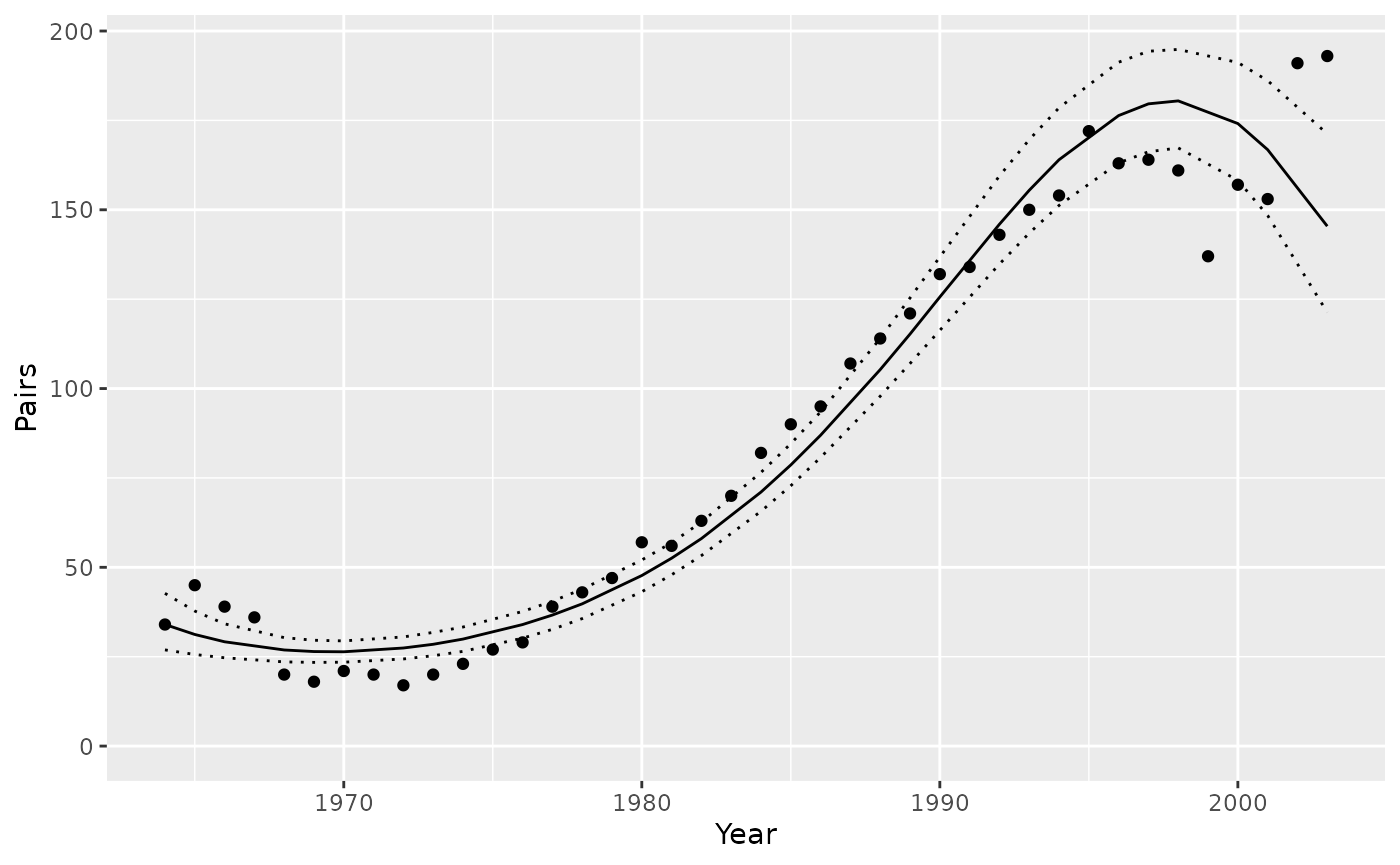
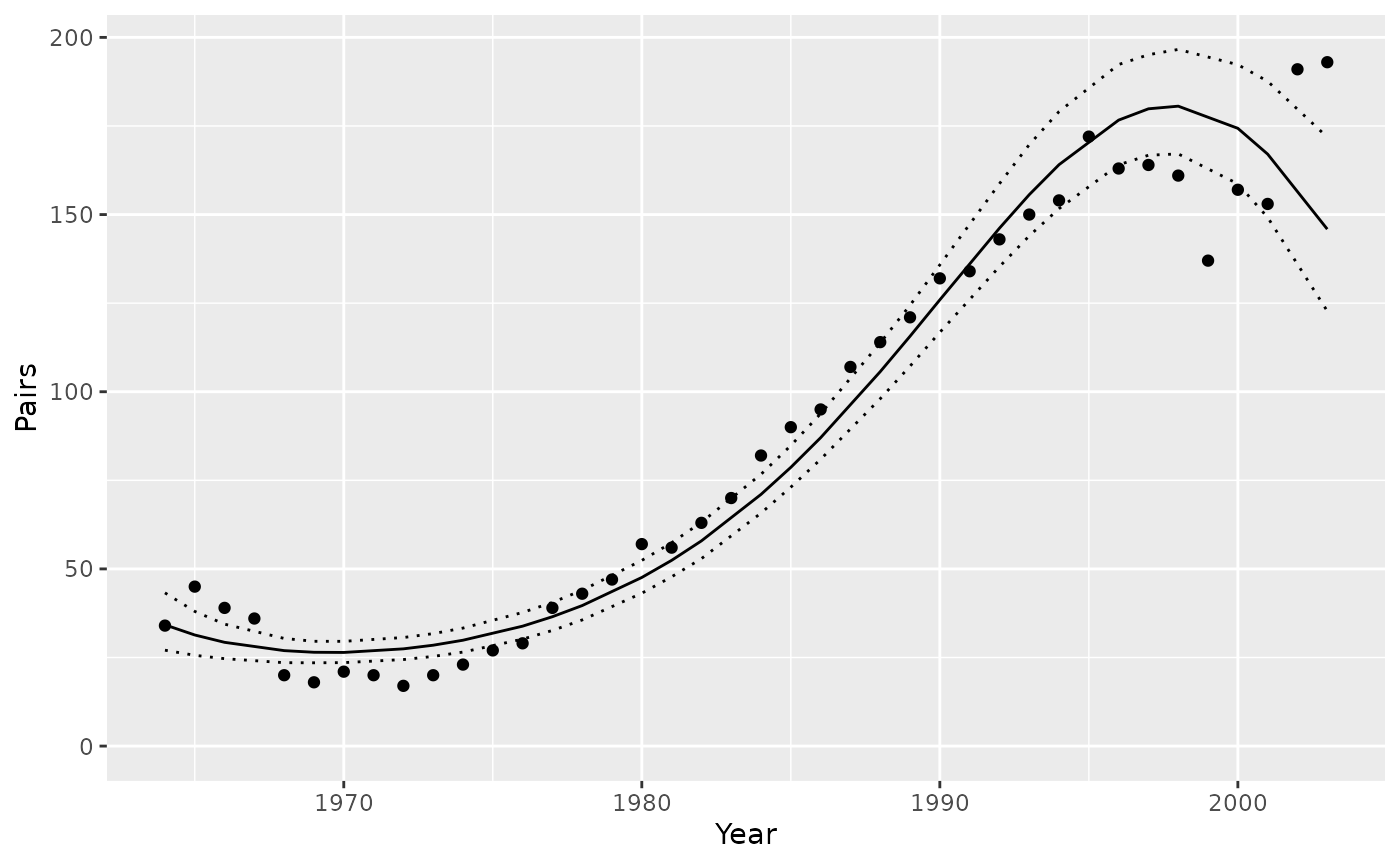
Deploying to gh-pages from @ poissonconsulting/jmbr@90ff088e9ef6c5c08126eb83562d318037f56874 🚀

diff --git a/articles/jmbr.html b/articles/jmbr.html
@@ -82,7 +82,7 @@ relationships of interest are set in JAGS.</p>
 <code class="sourceCode R"><span><span class="kw"><a href="https://rdrr.io/r/base/library.html" class="external-link">library</a></span><span class="op">(</span><span class="va"><a href="https://github.com/poissonconsulting/jmbr" class="external-link">jmbr</a></span><span class="op">)</span></span>
 <span><span class="kw"><a href="https://rdrr.io/r/base/library.html" class="external-link">library</a></span><span class="op">(</span><span class="va"><a href="https://github.com/poissonconsulting/embr" class="external-link">embr</a></span><span class="op">)</span></span></code></pre></div>
 <div class="sourceCode" id="cb2"><pre class="downlit sourceCode r">
-<code class="sourceCode R"><span><span class="va">model</span> <span class="op">&lt;-</span> <span class="fu"><a href="https://rdrr.io/pkg/embr/man/model.html" class="external-link">model</a></span><span class="op">(</span><span class="st">"model {</span></span>
+<code class="sourceCode R"><span><span class="va">model</span> <span class="op">&lt;-</span> <span class="fu"><a href="https://rdrr.io/pkg/embr/man/model.html" class="external-link">model</a></span><span class="op">(</span>code <span class="op">=</span> <span class="st">"model {</span></span>
 <span><span class="st"># Priors</span></span>
 <span><span class="st">  alpha ~ dnorm(0, 10^-2) T(0,)</span></span>
 <span><span class="st">  beta1 ~ dnorm(0, 10^-2)</span></span>
@@ -194,7 +194,7 @@ value and discarding all other values.</p>
 <h2 id="full-model">Full Model<a class="anchor" aria-label="anchor" href="#full-model"></a>
 </h2>
 <div class="sourceCode" id="cb7"><pre class="downlit sourceCode r">
-<code class="sourceCode R"><span><span class="va">model</span> <span class="op">&lt;-</span> <span class="fu"><a href="https://rdrr.io/pkg/embr/man/model.html" class="external-link">model</a></span><span class="op">(</span><span class="st">"model {</span></span>
+<code class="sourceCode R"><span><span class="va">model</span> <span class="op">&lt;-</span> <span class="fu"><a href="https://rdrr.io/pkg/embr/man/model.html" class="external-link">model</a></span><span class="op">(</span>code <span class="op">=</span> <span class="st">"model {</span></span>
 <span><span class="st">  alpha ~ dnorm(0, 10^-2) </span></span>
 <span><span class="st">  beta1 ~ dnorm(0, 10^-2)</span></span>
 <span><span class="st">  beta2 ~ dnorm(0, 10^-2)</span></span>
@@ -232,13 +232,6 @@ value and discarding all other values.</p>
 <span>random_effects <span class="op">=</span> <span class="fu"><a href="https://rdrr.io/r/base/list.html" class="external-link">list</a></span><span class="op">(</span>bAnnual <span class="op">=</span> <span class="st">"Annual"</span><span class="op">)</span>,</span>
 <span></span>
 <span>nthin <span class="op">=</span> <span class="fl">10L</span><span class="op">)</span></span>
-<span><span class="co">#&gt; Warning: The `x` argument of `model()` character() as of embr 0.0.1.9036.</span></span>
-<span><span class="co">#&gt; <span style="color: #00BBBB;">ℹ</span> Please use the `code` argument instead.</span></span>
-<span><span class="co">#&gt; <span style="color: #00BBBB;">ℹ</span> Passing a string to model() is deprecated. Use model(code = ...) or</span></span>
-<span><span class="co">#&gt;   model(mb_code("..."), ...) instead.</span></span>
-<span><span class="co">#&gt; <span style="color: #555555;">This warning is displayed once per session.</span></span></span>
-<span><span class="co">#&gt; <span style="color: #555555;">Call `lifecycle::last_lifecycle_warnings()` to see where this warning was</span></span></span>
-<span><span class="co">#&gt; <span style="color: #555555;">generated.</span></span></span>
 <span></span>
 <span><span class="va">data</span> <span class="op">&lt;-</span> <span class="fu">bauw</span><span class="fu">::</span><span class="va"><a href="https://poissonconsulting.github.io/bauw/reference/peregrine.html" class="external-link">peregrine</a></span></span>
 <span><span class="va">data</span><span class="op">$</span><span class="va">Annual</span> <span class="op">&lt;-</span> <span class="fu"><a href="https://rdrr.io/r/base/factor.html" class="external-link">factor</a></span><span class="op">(</span><span class="va">data</span><span class="op">$</span><span class="va">Year</span><span class="op">)</span></span>
@@ -285,14 +278,14 @@ value and discarding all other values.</p>
 <span><span class="co">#&gt; <span style="color: #949494;"># A tibble: 1 × 8</span></span></span>
 <span><span class="co">#&gt;       n     K nchains niters nthin   ess  rhat converged</span></span>
 <span><span class="co">#&gt;   <span style="color: #949494; font-style: italic;">&lt;int&gt;</span> <span style="color: #949494; font-style: italic;">&lt;int&gt;</span>   <span style="color: #949494; font-style: italic;">&lt;int&gt;</span>  <span style="color: #949494; font-style: italic;">&lt;int&gt;</span> <span style="color: #949494; font-style: italic;">&lt;int&gt;</span> <span style="color: #949494; font-style: italic;">&lt;int&gt;</span> <span style="color: #949494; font-style: italic;">&lt;dbl&gt;</span> <span style="color: #949494; font-style: italic;">&lt;lgl&gt;</span>    </span></span>
-<span><span class="co">#&gt; <span style="color: #BCBCBC;">1</span>    40     6       3    500    10   210  1.01 TRUE</span></span>
+<span><span class="co">#&gt; <span style="color: #BCBCBC;">1</span>    40     6       3    500    10   273  1.01 TRUE</span></span>
 <span><span class="co">#&gt; Warning in value[[3L]](cond): beep() could not play the sound due to the following error:</span></span>
 <span><span class="co">#&gt; Error in play.default(x, rate, ...): no audio drivers are available</span></span>
 <span><span class="va">analysis</span> <span class="op">&lt;-</span> <span class="fu"><a href="https://rdrr.io/pkg/embr/man/reanalyse.html" class="external-link">reanalyse</a></span><span class="op">(</span><span class="va">analysis</span><span class="op">)</span></span>
 <span><span class="co">#&gt; <span style="color: #949494;"># A tibble: 1 × 8</span></span></span>
 <span><span class="co">#&gt;       n     K nchains niters nthin   ess  rhat converged</span></span>
 <span><span class="co">#&gt;   <span style="color: #949494; font-style: italic;">&lt;int&gt;</span> <span style="color: #949494; font-style: italic;">&lt;int&gt;</span>   <span style="color: #949494; font-style: italic;">&lt;int&gt;</span>  <span style="color: #949494; font-style: italic;">&lt;int&gt;</span> <span style="color: #949494; font-style: italic;">&lt;int&gt;</span> <span style="color: #949494; font-style: italic;">&lt;int&gt;</span> <span style="color: #949494; font-style: italic;">&lt;dbl&gt;</span> <span style="color: #949494; font-style: italic;">&lt;lgl&gt;</span>    </span></span>
-<span><span class="co">#&gt; <span style="color: #BCBCBC;">1</span>    40     6       3    500    10   210  1.01 TRUE</span></span>
+<span><span class="co">#&gt; <span style="color: #BCBCBC;">1</span>    40     6       3    500    10   273  1.01 TRUE</span></span>
 <span><span class="co">#&gt; Warning in value[[3L]](cond): beep() could not play the sound due to the following error:</span></span>
 <span><span class="co">#&gt; Error in play.default(x, rate, ...): no audio drivers are available</span></span></code></pre></div>
 <p><strong>Analysis Table:</strong></p>
@@ -336,12 +329,12 @@ between- and within-chain estimates for model parameters.
 <span><span class="co">#&gt; <span style="color: #949494;"># A tibble: 6 × 5</span></span></span>
 <span><span class="co">#&gt;   term        estimate   lower   upper svalue</span></span>
 <span><span class="co">#&gt;   <span style="color: #949494; font-style: italic;">&lt;term&gt;</span>         <span style="color: #949494; font-style: italic;">&lt;dbl&gt;</span>   <span style="color: #949494; font-style: italic;">&lt;dbl&gt;</span>   <span style="color: #949494; font-style: italic;">&lt;dbl&gt;</span>  <span style="color: #949494; font-style: italic;">&lt;dbl&gt;</span></span></span>
-<span><span class="co">#&gt; <span style="color: #BCBCBC;">1</span> alpha         4.26    4.18    4.34    10.6 </span></span>
-<span><span class="co">#&gt; <span style="color: #BCBCBC;">2</span> beta1         1.19    1.05    1.35    10.6 </span></span>
-<span><span class="co">#&gt; <span style="color: #BCBCBC;">3</span> beta2        -<span style="color: #BB0000;">0.020</span><span style="color: #BB0000; text-decoration: underline;">6</span> -<span style="color: #BB0000;">0.079</span><span style="color: #BB0000; text-decoration: underline;">5</span>  0.040<span style="text-decoration: underline;">3</span>   1.01</span></span>
-<span><span class="co">#&gt; <span style="color: #BCBCBC;">4</span> beta3        -<span style="color: #BB0000;">0.273</span>  -<span style="color: #BB0000;">0.354</span>  -<span style="color: #BB0000;">0.202</span>   10.6 </span></span>
-<span><span class="co">#&gt; <span style="color: #BCBCBC;">5</span> log_sAnnual  -<span style="color: #BB0000;">2.21</span>   -<span style="color: #BB0000;">2.91</span>   -<span style="color: #BB0000;">1.74</span>    10.6 </span></span>
-<span><span class="co">#&gt; <span style="color: #BCBCBC;">6</span> sAnnual       0.110   0.054<span style="text-decoration: underline;">5</span>  0.176   10.6</span></span></code></pre></div>
+<span><span class="co">#&gt; <span style="color: #BCBCBC;">1</span> alpha         4.26    4.19    4.34   10.6  </span></span>
+<span><span class="co">#&gt; <span style="color: #BCBCBC;">2</span> beta1         1.19    1.07    1.35   10.6  </span></span>
+<span><span class="co">#&gt; <span style="color: #BCBCBC;">3</span> beta2        -<span style="color: #BB0000;">0.017</span><span style="color: #BB0000; text-decoration: underline;">8</span> -<span style="color: #BB0000;">0.079</span><span style="color: #BB0000; text-decoration: underline;">7</span>  0.039<span style="text-decoration: underline;">7</span>  0.907</span></span>
+<span><span class="co">#&gt; <span style="color: #BCBCBC;">4</span> beta3        -<span style="color: #BB0000;">0.271</span>  -<span style="color: #BB0000;">0.349</span>  -<span style="color: #BB0000;">0.206</span>  10.6  </span></span>
+<span><span class="co">#&gt; <span style="color: #BCBCBC;">5</span> log_sAnnual  -<span style="color: #BB0000;">2.22</span>   -<span style="color: #BB0000;">2.85</span>   -<span style="color: #BB0000;">1.71</span>   10.6  </span></span>
+<span><span class="co">#&gt; <span style="color: #BCBCBC;">6</span> sAnnual       0.109   0.057<span style="text-decoration: underline;">8</span>  0.181  10.6</span></span></code></pre></div>
 <p>The estimate is the <strong>median</strong> by default.</p>
 <p>The s-value is the <strong>suprisal</strong> value, which is a
 measure of directionality with respect to zero.</p>
@@ -360,13 +353,6 @@ and support that the data is in the direction of the posterior.</p>
 including the random effect of <code>Annual</code> held constant.</p>
 <div class="sourceCode" id="cb12"><pre class="downlit sourceCode r">
 <code class="sourceCode R"><span><span class="va">year</span> <span class="op">&lt;-</span> <span class="fu"><a href="https://rdrr.io/r/stats/predict.html" class="external-link">predict</a></span><span class="op">(</span><span class="va">analysis</span>, new_data <span class="op">=</span> <span class="st">"Year"</span><span class="op">)</span></span>
-<span><span class="co">#&gt; Warning: `zero()` was deprecated in mcmcr 0.2.1.</span></span>
-<span><span class="co">#&gt; <span style="color: #00BBBB;">ℹ</span> Please use `fill_all()` instead.</span></span>
-<span><span class="co">#&gt; <span style="color: #00BBBB;">ℹ</span> The deprecated feature was likely used in the <span style="color: #0000BB;">purrr</span> package.</span></span>
-<span><span class="co">#&gt;   Please report the issue at <span style="color: #0000BB; font-style: italic;">&lt;https://github.com/tidyverse/purrr/issues&gt;</span>.</span></span>
-<span><span class="co">#&gt; <span style="color: #555555;">This warning is displayed once per session.</span></span></span>
-<span><span class="co">#&gt; <span style="color: #555555;">Call `lifecycle::last_lifecycle_warnings()` to see where this warning was</span></span></span>
-<span><span class="co">#&gt; <span style="color: #555555;">generated.</span></span></span>
 <span></span>
 <span><span class="kw"><a href="https://rdrr.io/r/base/library.html" class="external-link">library</a></span><span class="op">(</span><span class="va"><a href="https://ggplot2.tidyverse.org" class="external-link">ggplot2</a></span><span class="op">)</span></span>
 <span></span>

diff --git a/index.html b/index.html
@@ -69,7 +69,7 @@
 <span><span class="kw"><a href="https://rdrr.io/r/base/library.html" class="external-link">library</a></span><span class="op">(</span><span class="va"><a href="https://github.com/ntthung/mbr" class="external-link">mbr</a></span><span class="op">)</span></span></code></pre></div>
 <div class="sourceCode" id="cb2"><pre class="downlit sourceCode r">
 <code class="sourceCode R"><span><span class="co"># define model in JAGS language</span></span>
-<span><span class="va">model</span> <span class="op">&lt;-</span> <span class="fu">model</span><span class="op">(</span><span class="st">"model {</span></span>
+<span><span class="va">model</span> <span class="op">&lt;-</span> <span class="fu">model</span><span class="op">(</span>code <span class="op">=</span> <span class="st">"model {</span></span>
 <span><span class="st">  alpha ~ dnorm(0, 10^-2)</span></span>
 <span><span class="st">  beta1 ~ dnorm(0, 10^-2)</span></span>
 <span><span class="st">  beta2 ~ dnorm(0, 10^-2)</span></span>

diff --git a/articles/jmbr.md b/articles/jmbr.md
@@ -23,7 +23,7 @@ library(embr)
 
 ``` r
 
-model <- model("model {
+model <- model(code = "model {
 # Priors
   alpha ~ dnorm(0, 10^-2) T(0,)
   beta1 ~ dnorm(0, 10^-2)
@@ -138,7 +138,7 @@ discarding all other values.
 
 ``` r
 
-model <- model("model {
+model <- model(code = "model {
   alpha ~ dnorm(0, 10^-2) 
   beta1 ~ dnorm(0, 10^-2)
   beta2 ~ dnorm(0, 10^-2)
@@ -176,13 +176,6 @@ select_data = list("Pairs" = c(15L, 200L),
 random_effects = list(bAnnual = "Annual"),
 
 nthin = 10L)
-#> Warning: The `x` argument of `model()` character() as of embr 0.0.1.9036.
-#> ℹ Please use the `code` argument instead.
-#> ℹ Passing a string to model() is deprecated. Use model(code = ...) or
-#>   model(mb_code("..."), ...) instead.
-#> This warning is displayed once per session.
-#> Call `lifecycle::last_lifecycle_warnings()` to see where this warning was
-#> generated.
 
 data <- bauw::peregrine
 data$Annual <- factor(data$Year)
@@ -221,14 +214,14 @@ analysis <- analyse(model, data = data)
 #> # A tibble: 1 × 8
 #>       n     K nchains niters nthin   ess  rhat converged
 #>   <int> <int>   <int>  <int> <int> <int> <dbl> <lgl>    
-#> 1    40     6       3    500    10   210  1.01 TRUE
+#> 1    40     6       3    500    10   273  1.01 TRUE
 #> Warning in value[[3L]](cond): beep() could not play the sound due to the following error:
 #> Error in play.default(x, rate, ...): no audio drivers are available
 analysis <- reanalyse(analysis)
 #> # A tibble: 1 × 8
 #>       n     K nchains niters nthin   ess  rhat converged
 #>   <int> <int>   <int>  <int> <int> <int> <dbl> <lgl>    
-#> 1    40     6       3    500    10   210  1.01 TRUE
+#> 1    40     6       3    500    10   273  1.01 TRUE
 #> Warning in value[[3L]](cond): beep() could not play the sound due to the following error:
 #> Error in play.default(x, rate, ...): no audio drivers are available
 ```
@@ -268,12 +261,12 @@ coef(analysis, directional_information = FALSE)
 #> # A tibble: 6 × 5
 #>   term        estimate   lower   upper svalue
 #>   <term>         <dbl>   <dbl>   <dbl>  <dbl>
-#> 1 alpha         4.26    4.18    4.34    10.6 
-#> 2 beta1         1.19    1.05    1.35    10.6 
-#> 3 beta2        -0.0206 -0.0795  0.0403   1.01
-#> 4 beta3        -0.273  -0.354  -0.202   10.6 
-#> 5 log_sAnnual  -2.21   -2.91   -1.74    10.6 
-#> 6 sAnnual       0.110   0.0545  0.176   10.6
+#> 1 alpha         4.26    4.19    4.34   10.6  
+#> 2 beta1         1.19    1.07    1.35   10.6  
+#> 3 beta2        -0.0178 -0.0797  0.0397  0.907
+#> 4 beta3        -0.271  -0.349  -0.206  10.6  
+#> 5 log_sAnnual  -2.22   -2.85   -1.71   10.6  
+#> 6 sAnnual       0.109   0.0578  0.181  10.6
 ```
 
 The estimate is the **median** by default.
@@ -300,13 +293,6 @@ random effect of `Annual` held constant.
 ``` r
 
 year <- predict(analysis, new_data = "Year")
-#> Warning: `zero()` was deprecated in mcmcr 0.2.1.
-#> ℹ Please use `fill_all()` instead.
-#> ℹ The deprecated feature was likely used in the purrr package.
-#>   Please report the issue at <https://github.com/tidyverse/purrr/issues>.
-#> This warning is displayed once per session.
-#> Call `lifecycle::last_lifecycle_warnings()` to see where this warning was
-#> generated.
 
 library(ggplot2)
 

diff --git a/index.md b/index.md
@@ -19,7 +19,7 @@ library(mbr)
 ``` r
 
 # define model in JAGS language
-model <- model("model {
+model <- model(code = "model {
   alpha ~ dnorm(0, 10^-2)
   beta1 ~ dnorm(0, 10^-2)
   beta2 ~ dnorm(0, 10^-2)
